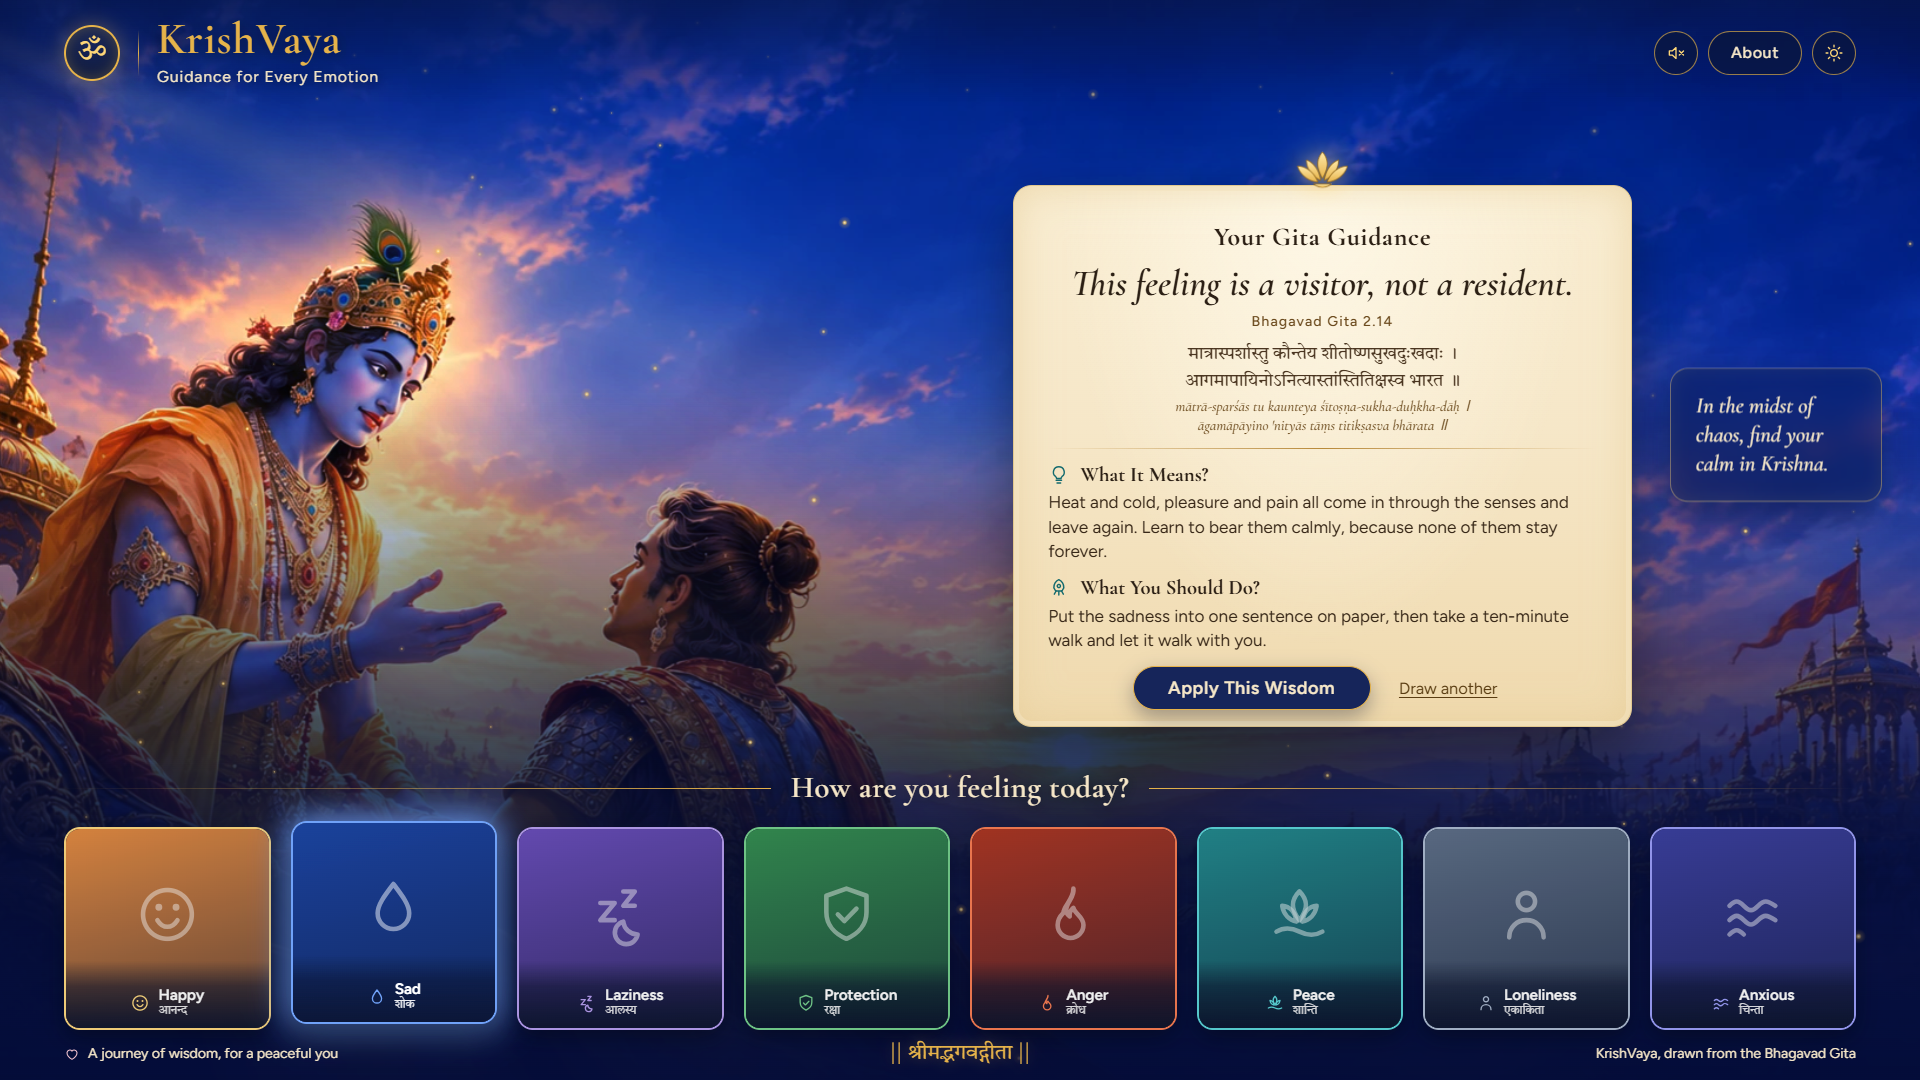
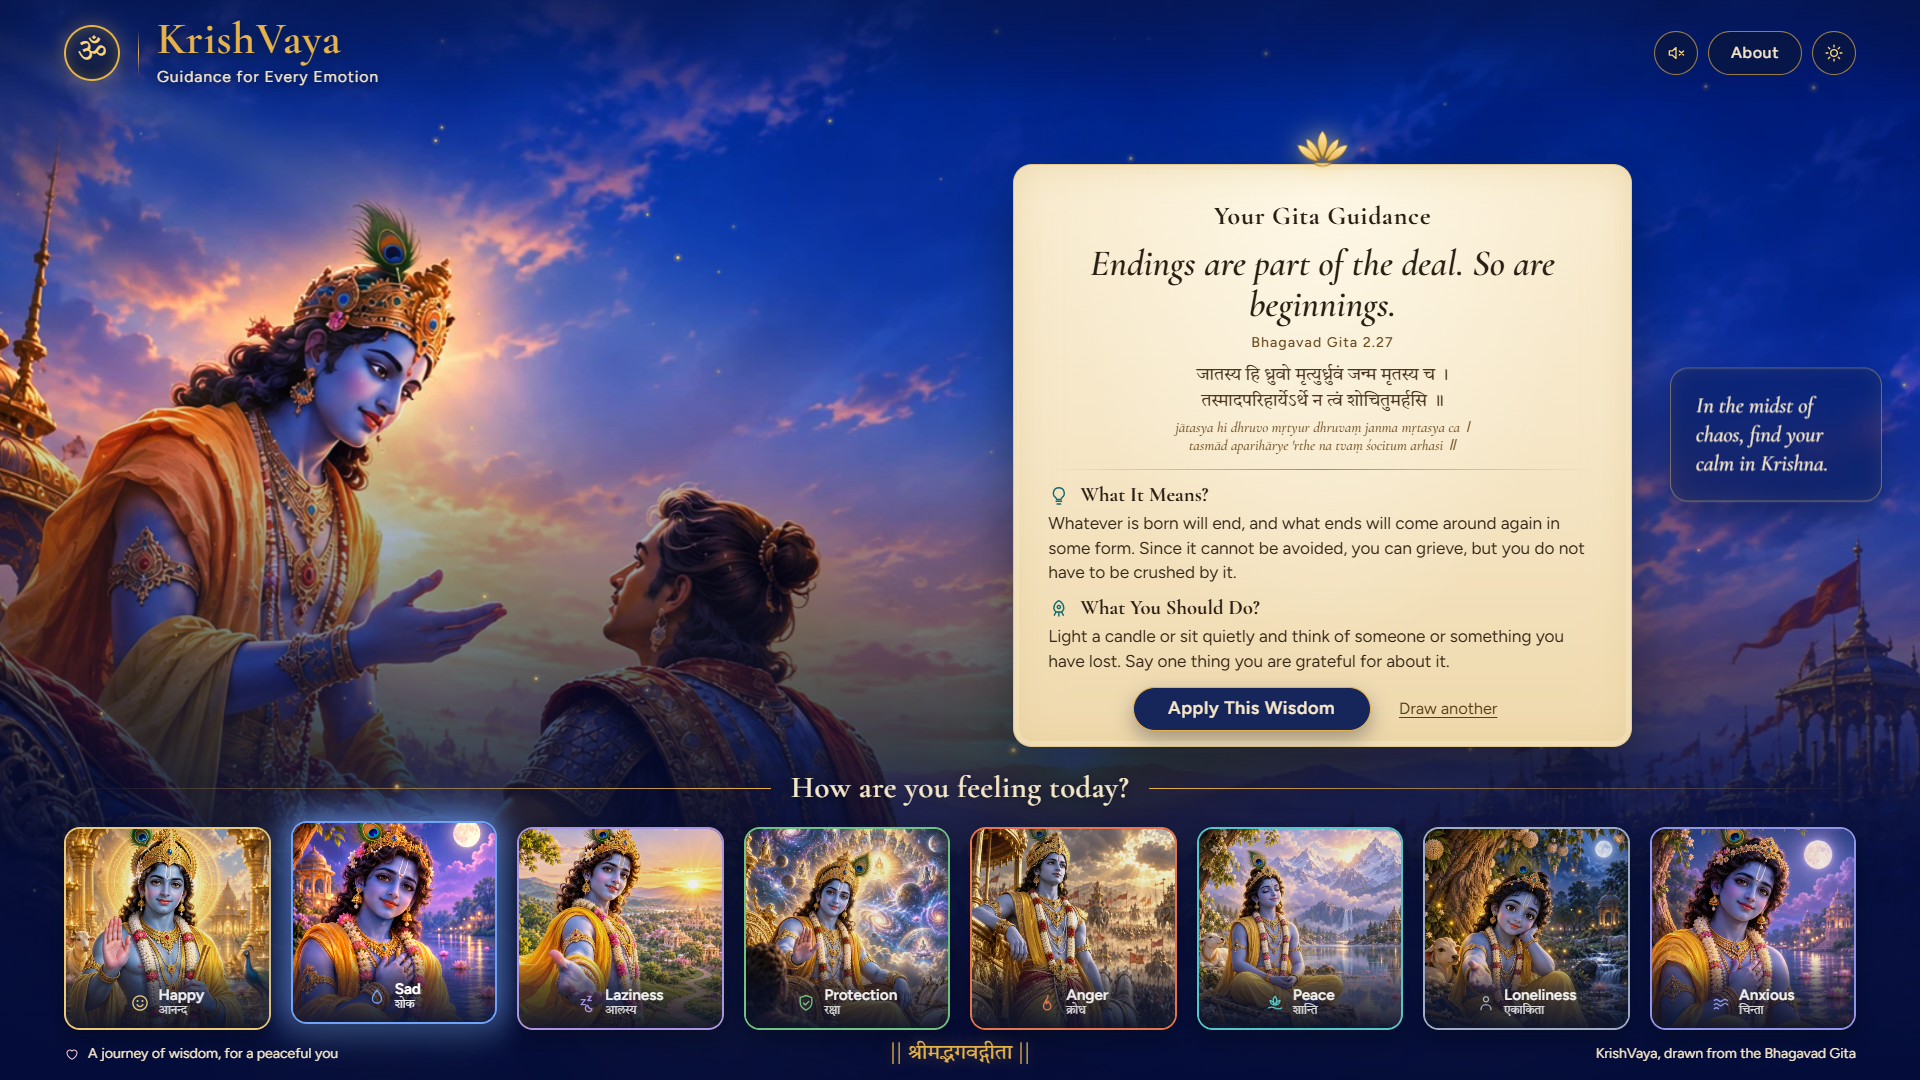
Major revamp

Changed region(s): [[0.0312, 0.7639, 0.9688, 0.9472], [0.5312, 0.4278, 0.8438, 0.7028], [0.5312, 0.1222, 0.875, 0.4278]]

diff --git a/src/styles.css b/src/styles.css
@@ -436,6 +436,11 @@ button {
   color: #382818;
 }
 
+.hero-tagline,
+.choose-link {
+  display: none;
+}
+
 .card-foot {
   display: flex;
   flex-wrap: wrap;
@@ -609,6 +614,7 @@ button {
   width: 100%;
   height: 100%;
   object-fit: cover;
+  object-position: 50% 22%; /* keep the face in frame when the tile is squarer than 4:5 */
   transition: opacity 1.4s ease, transform 3s var(--ease);
 }
 .tile-img.is-loading {
@@ -960,34 +966,42 @@ button {
   }
 }
 
-/* ---------- Mobile ---------- */
+/* ---------- Mobile: pick a feeling first, guidance right after ---------- */
 @media (max-width: 760px) {
   .stage {
     background: var(--midnight);
   }
+  /* soft-light does nothing on a dark page, so the mood tint is a gentle wash here */
+  .tint {
+    mix-blend-mode: normal;
+    opacity: 0.22;
+  }
+
+  /* 1. compact header: emblem + name on the left, three 44px controls on the right */
   .header {
     order: 0;
-    padding: calc(10px + env(safe-area-inset-top)) calc(14px + env(safe-area-inset-right)) 10px
-      calc(14px + env(safe-area-inset-left));
+    gap: 8px;
+    padding: calc(8px + env(safe-area-inset-top)) calc(12px + env(safe-area-inset-right)) 8px
+      calc(12px + env(safe-area-inset-left));
     background: none;
   }
   .emblem {
-    width: 42px;
-    height: 42px;
+    width: 40px;
+    height: 40px;
   }
   .emblem-glyph {
-    font-size: 23px;
+    font-size: 22px;
   }
-  .brand-divider {
-    height: 34px;
-    margin: 0 10px;
+  .brand-divider,
+  .brand-sub {
+    display: none;
+  }
+  .brand-text {
+    min-width: 0;
+    margin-left: 10px;
   }
   .brand-title {
-    font-size: 1.55rem;
-  }
-  .brand-sub {
-    font-size: 0.68rem;
-    letter-spacing: 0.04em;
+    font-size: 1.6rem;
   }
   .header-actions {
     gap: 6px;
@@ -996,53 +1010,50 @@ button {
     padding: 0 14px;
   }
 
+  /* 2. short hero; the tagline sits on the painting instead of crowding the header */
   .hero {
     position: relative;
     inset: auto;
     order: 1;
-    height: min(46vh, 400px);
-    height: min(46svh, 400px);
+    height: min(30vh, 250px);
+    height: min(30svh, 250px);
+    min-height: 170px;
   }
   .hero::before {
     content: '';
     position: absolute;
     inset: 0;
     z-index: 2;
-    background: linear-gradient(to top, var(--midnight) 0%, rgba(11, 20, 48, 0) 50%);
+    background: linear-gradient(to top, var(--midnight) 0%, rgba(11, 20, 48, 0) 60%);
   }
   .hero-img {
-    object-position: 4% 30%;
+    object-position: 4% 28%;
+  }
+  .hero-tagline {
+    position: absolute;
+    z-index: 3;
+    left: 16px;
+    right: 16px;
+    bottom: 10px;
+    display: block;
+    margin: 0;
+    font-family: var(--serif);
+    font-style: italic;
+    font-weight: 600;
+    font-size: 1.3rem;
+    line-height: 1.2;
+    text-align: center;
+    color: var(--bright-gold);
+    text-shadow: 0 2px 12px rgba(5, 9, 24, 0.9);
   }
   .shade {
     display: none;
   }
 
-  .main {
-    order: 2;
-    align-items: center;
-    margin-top: -34px;
-    padding: 0 14px;
-  }
-  .card {
-    width: 100%;
-    max-width: 460px;
-  }
-  .sheet {
-    padding: 2.1em 1.25em 0.8em;
-  }
-  .quote-slot {
-    width: 100%;
-    max-width: 460px;
-    margin-top: 2px;
-  }
-  .quote-glass {
-    text-align: center;
-    font-size: 1.15rem;
-  }
-
+  /* 3. the feelings come first: that is the one thing to do on this screen */
   .feelings {
-    order: 3;
-    margin-top: 20px;
+    order: 2;
+    margin-top: 4px;
     padding: 0;
   }
   .feel-heading {
@@ -1052,30 +1063,83 @@ button {
   }
   .tiles {
     display: flex;
-    gap: 12px;
+    gap: 10px;
     height: auto;
-    padding: 14px calc(16px + env(safe-area-inset-right)) 18px calc(16px + env(safe-area-inset-left));
+    padding: 12px calc(16px + env(safe-area-inset-right)) 14px calc(16px + env(safe-area-inset-left));
     overflow-x: auto;
-    scroll-snap-type: x mandatory;
+    scroll-snap-type: x proximity;
     scroll-padding-inline: 16px;
     -webkit-overflow-scrolling: touch;
-    scrollbar-width: thin;
-    scrollbar-color: rgba(230, 179, 74, 0.5) transparent;
+    scrollbar-width: none;
+  }
+  .tiles::-webkit-scrollbar {
+    display: none;
   }
   .tile {
-    flex: 0 0 clamp(132px, 40vw, 170px);
-    height: clamp(190px, 30vh, 230px);
+    flex: 0 0 clamp(112px, 34vw, 150px);
+    height: clamp(150px, 23vh, 190px);
     scroll-snap-align: start;
   }
   .tile-label {
-    font-size: 0.95rem;
+    padding: 22px 6px 9px;
+    font-size: 0.88rem;
+    gap: 6px;
   }
+  .tile-sa {
+    font-size: 0.72em;
+  }
+
+  /* 4. guidance */
+  .main {
+    order: 3;
+    align-items: center;
+    padding: 18px 14px 6px;
+  }
+  .card {
+    width: 100%;
+    max-width: 460px;
+    margin-top: 2.4em;
+    scroll-margin-top: 3.6em;
+  }
+  .sheet {
+    padding: 2.2em 1.2em 0.7em;
+  }
+  .card-heading {
+    font-size: 1.3em;
+  }
+  .verse-quote {
+    font-size: 1.75em;
+  }
+  .sanskrit {
+    font-size: 1em;
+  }
+  .card-foot {
+    flex-direction: column;
+    gap: 0;
+  }
+  .apply-btn {
+    width: 100%;
+    max-width: 320px;
+  }
+  .choose-link {
+    display: inline-block;
+  }
+  .quote-slot {
+    width: 100%;
+    max-width: 460px;
+    margin-top: 6px;
+  }
+  .quote-glass {
+    text-align: center;
+    font-size: 1.15rem;
+  }
+
   .footer {
     order: 4;
     grid-template-columns: 1fr;
     justify-items: center;
     gap: 6px;
-    padding-top: 6px;
+    padding-top: 10px;
     text-align: center;
   }
   .foot-mid {
@@ -1083,23 +1147,6 @@ button {
   }
   .foot-right {
     text-align: center;
-  }
-}
-
-@media (max-width: 400px) {
-  .brand-divider {
-    display: none;
-  }
-  .brand-text {
-    min-width: 0;
-    margin-left: 10px;
-  }
-  .brand-title {
-    font-size: 1.4rem;
-  }
-  .brand-sub {
-    font-size: 0.6rem;
-    letter-spacing: 0.02em;
   }
 }
 

diff --git a/src/App.jsx b/src/App.jsx
@@ -33,6 +33,7 @@ export default function App() {
 
   const stageRef = useRef(null)
   const cardRef = useRef(null)
+  const feelingsRef = useRef(null)
   const glitterRef = useRef(null)
   const timers = useRef([])
   const toastTimer = useRef(0)
@@ -82,11 +83,22 @@ export default function App() {
     )
   }
 
+  // On stacked layouts the card can be off-screen, so bring it into view after a choice.
+  const showCard = () => {
+    if (!window.matchMedia('(max-width: 1100px)').matches) return
+    cardRef.current?.scrollIntoView({ behavior: reduced ? 'auto' : 'smooth', block: 'start' })
+  }
+
+  const showFeelings = () => {
+    feelingsRef.current?.scrollIntoView({ behavior: reduced ? 'auto' : 'smooth', block: 'start' })
+  }
+
   const pickFeeling = (id) => {
     const feeling = FEELINGS.find((f) => f.id === id)
     setFeelingId(id)
     setTint(feeling.tint)
     swapSlip(pickSlip(id, slip.id), id)
+    showCard()
     timers.current.push(setTimeout(() => glitterRef.current?.release(), 2500))
   }
 
@@ -124,6 +136,7 @@ export default function App() {
               fade
             />
           </div>
+          <p className="hero-tagline" aria-hidden="true">Guidance for Every Emotion</p>
         </div>
         <div className="shade" aria-hidden="true" />
         <div className="tint" style={{ backgroundColor: tint || '#e6b34a', opacity: tint ? undefined : 0 }} aria-hidden="true" />
@@ -146,11 +159,12 @@ export default function App() {
             reveal={reveal}
             onApply={() => setBreathSlip(slip)}
             onDraw={drawAnother}
+            onChoose={showFeelings}
           />
           <FloatingQuote quotes={QUOTES} />
         </main>
 
-        <Tiles feelings={FEELINGS} selectedId={feelingId} onPick={pickFeeling} onHover={hoverTile} />
+        <Tiles ref={feelingsRef} feelings={FEELINGS} selectedId={feelingId} onPick={pickFeeling} onHover={hoverTile} />
 
         <footer className="footer">
           <p className="foot-left">

diff --git a/src/components/GuidanceCard.jsx b/src/components/GuidanceCard.jsx
@@ -3,7 +3,7 @@ import { BulbIcon, LotusIcon, RocketIcon } from './Icons.jsx'
 
 // phase: 'idle' | 'out' (rolling up) | 'in' (unrolling). `reveal` changes on every new slip
 // so the lines remount and fade in again, 120ms apart.
-const GuidanceCard = forwardRef(function GuidanceCard({ slip, phase, reveal, onApply, onDraw }, ref) {
+const GuidanceCard = forwardRef(function GuidanceCard({ slip, phase, reveal, onApply, onDraw, onChoose }, ref) {
   const line = (i) => ({ '--i': i })
   return (
     <section className="card" ref={ref} aria-label="Gita guidance">
@@ -45,6 +45,9 @@ const GuidanceCard = forwardRef(function GuidanceCard({ slip, phase, reveal, onA
           </button>
           <button type="button" className="text-link" onClick={onDraw}>
             Draw another
+          </button>
+          <button type="button" className="text-link choose-link" onClick={onChoose}>
+            Choose another feeling
           </button>
         </div>
       </div>

diff --git a/src/components/Tiles.jsx b/src/components/Tiles.jsx
@@ -1,3 +1,4 @@
+import { forwardRef } from 'react'
 import { MOOD_ICONS } from './Icons.jsx'
 import SoftImg from './SoftImg.jsx'
 import { asset } from '../lib.js'
@@ -43,9 +44,9 @@ function Tile({ feeling, selected, onPick, onHover }) {
   )
 }
 
-export default function Tiles({ feelings, selectedId, onPick, onHover }) {
+const Tiles = forwardRef(function Tiles({ feelings, selectedId, onPick, onHover }, ref) {
   return (
-    <section className="feelings" aria-labelledby="feel-heading">
+    <section className="feelings" aria-labelledby="feel-heading" ref={ref}>
       <h2 className="feel-heading" id="feel-heading">
         <span>How are you feeling today?</span>
       </h2>
@@ -56,4 +57,6 @@ export default function Tiles({ feelings, selectedId, onPick, onHover }) {
       </div>
     </section>
   )
-}
+})
+
+export default Tiles
